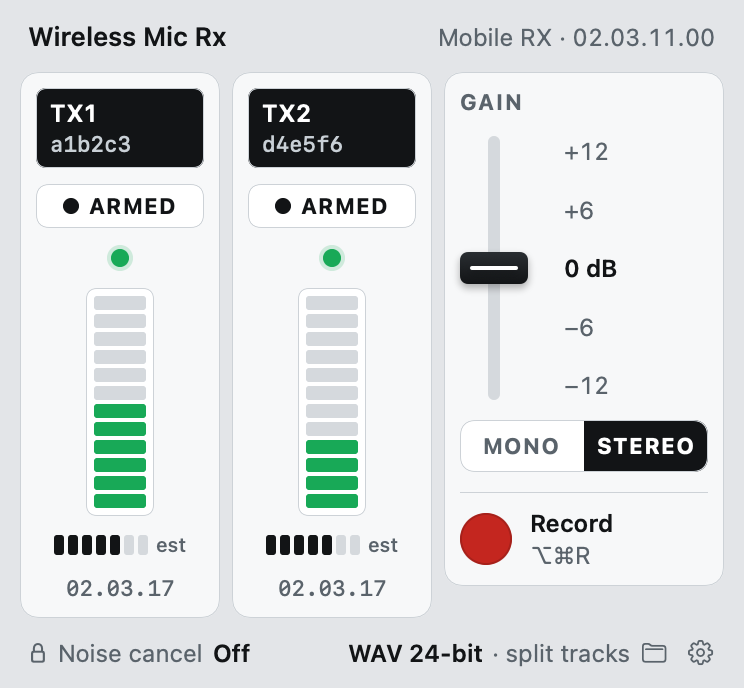
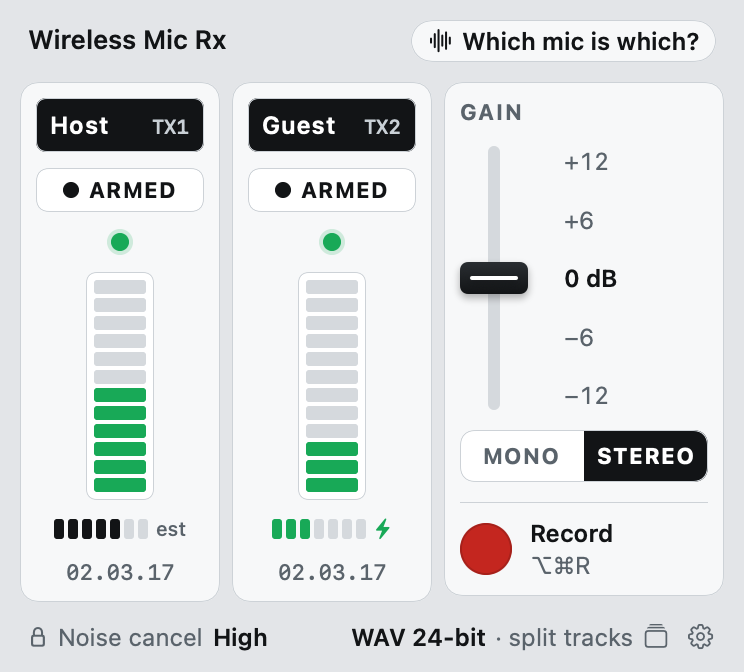
README: show named mics, charging, noise-cancel level, identify mode, elapsed time and safe quit; plugin permissions, capture and app plugins; refreshed screenshots

diff --git a/Sources/LavdeckApp/AppModel.swift b/Sources/LavdeckApp/AppModel.swift
@@ -439,18 +439,20 @@ final class AppModel {
         s.receiver.identity.firmware = "02.03.11.00"
         s.receiver.channelMode = .stereo
         s.receiver.gainDB = 0
-        s.receiver.noiseCancelling = false
+        s.receiver.noiseCancelling = true
+        s.receiver.noiseCancellingLevel = 1
         s.receiver.connectedTransmitters = [1, 2]
-        for (index, id, fw, meter) in [(1, "a1b2c3", "02.03.17.00", 58), (2, "d4e5f6", "02.03.17.00", 41)] {
+        for (index, id, fw, meter, battery, charging) in [(1, "a1b2c3", "02.03.17.00", 58, 5, false), (2, "d4e5f6", "02.03.17.00", 41, 3, !recording)] {
             var tx = TransmitterStatus(index: index)
             tx.identity.productName = "DJI Mic Mini"
             tx.identity.bluetoothID = id
             tx.identity.firmware = fw
-            tx.batteryLevel = 5
-            tx.isCharging = false
+            tx.batteryLevel = battery
+            tx.isCharging = charging
             tx.meterLevel = meter
             s.transmitters[index] = tx
         }
+        demoNames = ["a1b2c3": "Host", "d4e5f6": "Guest"]
         status = s
         isConnected = true
         knownTransmitters = [1, 2]
@@ -469,8 +471,19 @@ final class AppModel {
 
     // MARK: Identify and naming
 
+    /// Names used by the demo snapshots, so they never touch the user's saved names.
+    private var demoNames: [String: String] = [:]
+
+    /// Demo snapshot of identify mode: one mic highlighted as talking.
+    func loadDemoIdentify() {
+        loadDemo(recording: false)
+        identifying = true
+        talkingMic = 1
+    }
+
     /// The name shown on a strip: the user's name for that physical mic, else the slot.
     func displayName(_ index: Int) -> String {
+        if demo, let id = transmitter(index)?.identity.bluetoothID, let name = demoNames[id] { return name }
         if let id = transmitter(index)?.identity.bluetoothID, let name = micNames[id], !name.isEmpty { return name }
         return "TX\(index)"
     }

diff --git a/Sources/LavdeckApp/Snapshot.swift b/Sources/LavdeckApp/Snapshot.swift
@@ -48,6 +48,9 @@ enum Snapshot {
                 model.loadDemo(recording: true)
                 try? await Task.sleep(for: .milliseconds(300))
                 render(model: model, name: "recording", dir: dir)
+                model.loadDemoIdentify()
+                try? await Task.sleep(for: .milliseconds(300))
+                render(model: model, name: "identify", dir: dir)
             } else {
                 try? await Task.sleep(for: .seconds(4))
                 render(model: model, name: "idle", dir: dir)

diff --git a/README.md b/README.md
@@ -30,21 +30,27 @@ Lavdeck talks to the receiver directly over USB. Plug it into your Mac and withi
 ## What it does
 
 <p align="center">
-  <img src="docs/images/popover-light.png" alt="Lavdeck idle: TX1 and TX2 channel strips with link lights, level meters, battery and firmware, plus gain fader and mono/stereo switch" width="45%">
+  <img src="docs/images/popover-light.png" alt="Lavdeck idle: strips named Host and Guest with link lights, level meters, battery (Guest charging) and firmware, plus gain fader, mono/stereo switch and noise cancel set to High" width="32%">
   &nbsp;
-  <img src="docs/images/recording-dark.png" alt="Lavdeck recording in stereo, dark appearance: each strip names the file it is writing" width="45%">
+  <img src="docs/images/identify-light.png" alt="Which mic is which? Host's strip lights up while Host talks, with a banner saying That's Host (TX1)" width="32%">
+  &nbsp;
+  <img src="docs/images/recording-dark.png" alt="Lavdeck recording in stereo, dark appearance: elapsed time in the header and each strip names the file it is writing" width="32%">
+  <br><sub>Named mics with battery and charging · finding which mic is which · recording in stereo</sub>
 </p>
 
-- **Live status for every mic:** link light, level meter, battery estimate and firmware for TX1 and TX2, straight from the receiver.
+- **Live status for every mic:** link light, level meter, battery estimate, a ⚡ while it charges, and firmware for TX1 and TX2, straight from the receiver.
+- **Noise cancelling at a glance:** shows whether the receiver's switch is on Off, Low or High.
 - **Mono / stereo** with one click. In stereo, TX1 is left and TX2 is right.
 - **Receiver gain** on a five‑detent fader: −12, −6, 0, +6, +12 dB.
 - **Recording** to 24‑bit WAV (or M4A), into a dated folder with no save dialog.
 - **Separate tracks:** in stereo, save each mic as its own file next to the stereo take.
 - **Pick your mics:** arm one or both. With one armed, only that mic is recorded.
 - **Which mic is which?** Click it and talk into a mic: its strip lights up. Name each mic (say "Host" and "Guest") and the name follows that physical mic.
-- **Start and stop anywhere:** the Record button, <kbd>⌥</kbd><kbd>⌘</kbd><kbd>R</kbd>, or a tap on either mic's link button (without changing your Mac's volume).
+- **Start and stop anywhere:** the Record button, <kbd>⌥</kbd><kbd>⌘</kbd><kbd>R</kbd>, or a tap on either mic's link button (without changing your Mac's volume). The elapsed time sits next to REC, and Stop is always on screen while recording, even if the receiver drops.
+- **Takes survive quitting:** quit Lavdeck mid‑take (or let macOS "Quit & Reopen" it after a permission change) and the take is stopped and saved first.
 - **Recordings window:** every take in one list. Filter, sort and search, including inside transcripts. Play from any line of a transcript, and move a take to the Trash with all its files.
-- **Plugins:** add what happens after you hit stop, such as transcripts or processing, written in any language. See [Plugins](#plugins).
+- **Plugins:** add what happens alongside or after a recording, such as transcripts, screen and camera capture, or an editor, written in any language. See [Plugins](#plugins).
+- **Battery history:** every change in a mic's battery estimate or charging state is logged to `~/Library/Logs/Lavdeck/battery.log`, so you can see how long a charge lasts.
 - **A menu bar icon that tells you what's wrong** before you open anything:
 
 <p align="center">
@@ -93,20 +99,26 @@ Plug in the receiver (a USB hub must carry data, not just power) and click the i
 | Switch mono / stereo | Click **MONO** or **STEREO** in the popover |
 | Change gain | Drag the fader or click a value |
 | Tell the mics apart | **Which mic is which?**, then talk into one; click a strip's name to label it |
+| Check battery and charging | The cells under each meter (0–7 estimate); ⚡ while charging. History in `~/Library/Logs/Lavdeck/battery.log` |
 | Record only one mic | Click **ARMED** on the other strip to turn it **OFF** |
 | Start / stop recording | **Record**, <kbd>⌥</kbd><kbd>⌘</kbd><kbd>R</kbd>, or tap a mic's link button |
 | Find your takes | Click the format label in the popover to open **Recordings**, or look in `~/Recordings/Lavdeck/<date>/` |
 | Search or transcribe old takes | **Recordings**: type in the search field, or **More › Generate transcript** (needs a transcription plugin) |
+| Open a take in an app plugin | **Recordings** › select a take › **Open in …** |
+| Turn plugins on and allow what they need | Gear icon › **Plugins** |
 | Change format, folder, tracks, login item | The gear icon |
 
-Noise cancelling stays on the receiver's physical **O / L / H** switch; Lavdeck shows its state.
+Noise cancelling stays on the receiver's physical **O / L / H** switch; Lavdeck shows which position it's in.
 
 There's also a small command‑line tool for scripting and debugging:
 
 ```bash
 swift build -c release
-.build/release/lavdeck status --json    # live status, read-only
+.build/release/lavdeck status --json    # live status, read-only (battery, charging, levels)
 .build/release/lavdeck set channel stereo
+.build/release/lavdeck takes             # list recorded takes
+.build/release/lavdeck plugins           # list installed plugins
+.build/release/lavdeck run <plugin-id> <action> <take-id>   # run a plugin action on a take
 ```
 
 ## Plugins
@@ -114,9 +126,11 @@ swift build -c release
 Plugins add steps that run after a take is recorded, never during it, so they can't cost you a recording. A plugin is a folder with a small `plugin.json` and a program in any language. Lavdeck sends it the take as JSON and shows the plugin's progress in the menu bar and the Recordings window. Its settings appear in **Settings › Plugins**, and its actions appear on every take in the Recordings window.
 
 - **Events:** run automatically when a recording finishes, for example to transcribe every take.
-- **Capture:** record alongside the mic, for example the screen and a webcam, with every file lined up to the audio.
+- **Capture:** record alongside the mic, for example the screen and a webcam. Lavdeck notes when each file's first frame happened relative to the audio, so every file lines up to the frame.
 - **Actions:** run on demand on any take, old or new, for example **Generate transcript**.
+- **Apps:** a plugin can ship a companion app, such as an editor; every take gets an **Open in …** button.
 - **Shared formats:** a plugin that writes the standard transcript JSON gets search, speaker names and click-to-play in the Recordings window for free.
+- **One permission prompt, not one per plugin:** plugins never ask macOS for anything. They declare what they need (screen recording, camera), Lavdeck asks once and shows what's allowed in **Settings › Plugins**, and every plugin runs under Lavdeck's permissions.
 
 Start from [`Examples/plugins/take-info`](Examples/plugins/take-info), which includes a one-file Python helper. The protocol is documented in **[docs/PLUGINS.md](docs/PLUGINS.md)**. A plugin runs with your permissions, so install only plugins you trust. Plugins are installed switched off.
 
@@ -130,7 +144,7 @@ Start from [`Examples/plugins/take-info`](Examples/plugins/take-info), which inc
 
 **Known limits**
 
-- Battery is DJI's own 0–7 estimate, shown as such.
+- Battery is DJI's own 0–7 estimate, shown as such; there's no finer percentage to read. Charging is what each mic reports, and a mic that was just in use can take a few minutes to start charging.
 - In mono the receiver mixes both mics, so each strip shows the mixed level (labelled **mono mix**). Switch to stereo to see each mic's own level.
 - The receiver accepts a per‑mic mute but doesn't act on it, so Lavdeck records one mic by keeping only its channel instead.
 - The Mac can't tell which mic's button was tapped; either one toggles recording.
@@ -145,12 +159,12 @@ The receiver has a firmware‑update channel on the same USB connection. Lavdeck
 The receiver speaks DJI's DUML protocol on a vendor USB interface alongside its normal audio interface. Lavdeck reads the receiver's status pushes, sends a handful of settings commands, and records the receiver's standard USB audio with AVFoundation. The protocol, as far as it's been mapped, is documented in **[docs/PROTOCOL.md](docs/PROTOCOL.md)**, and the app's visual system in [DESIGN.md](DESIGN.md).
 
 ```
-Sources/LavdeckKit        USB link, DUML framing, status decoder, allowlisted commands, recorder, take library, plugin runner
-Sources/LavdeckPluginKit  plugin protocol and transcript types (usable by Swift plugins)
-Sources/LavdeckApp        SwiftUI menu bar app and Recordings window
+Sources/LavdeckKit        USB link, DUML framing, status decoder, allowlisted commands, recorder, take library, plugin and capture runners
+Sources/LavdeckPluginKit  plugin protocol (post, capture and app plugins) and transcript types, usable by Swift plugins
+Sources/LavdeckApp        SwiftUI menu bar app, Recordings window, plugin settings and permissions
 Sources/lavdeck           command-line tool
 Examples/plugins          example plugin with a Python helper
-Tests                     decoder and framing tests on captured frames, take library and plugin runner tests
+Tests                     decoder and framing tests on captured frames; take library, plugin, capture and app-plugin tests
 ```
 
 ## Contributing
